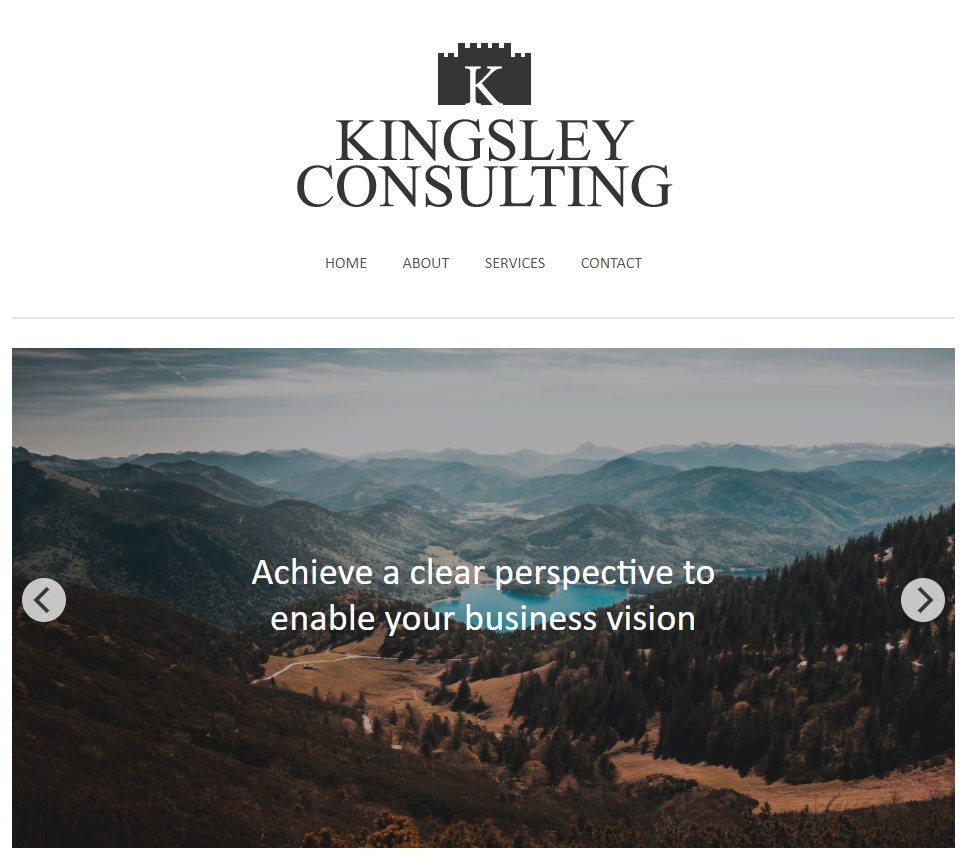
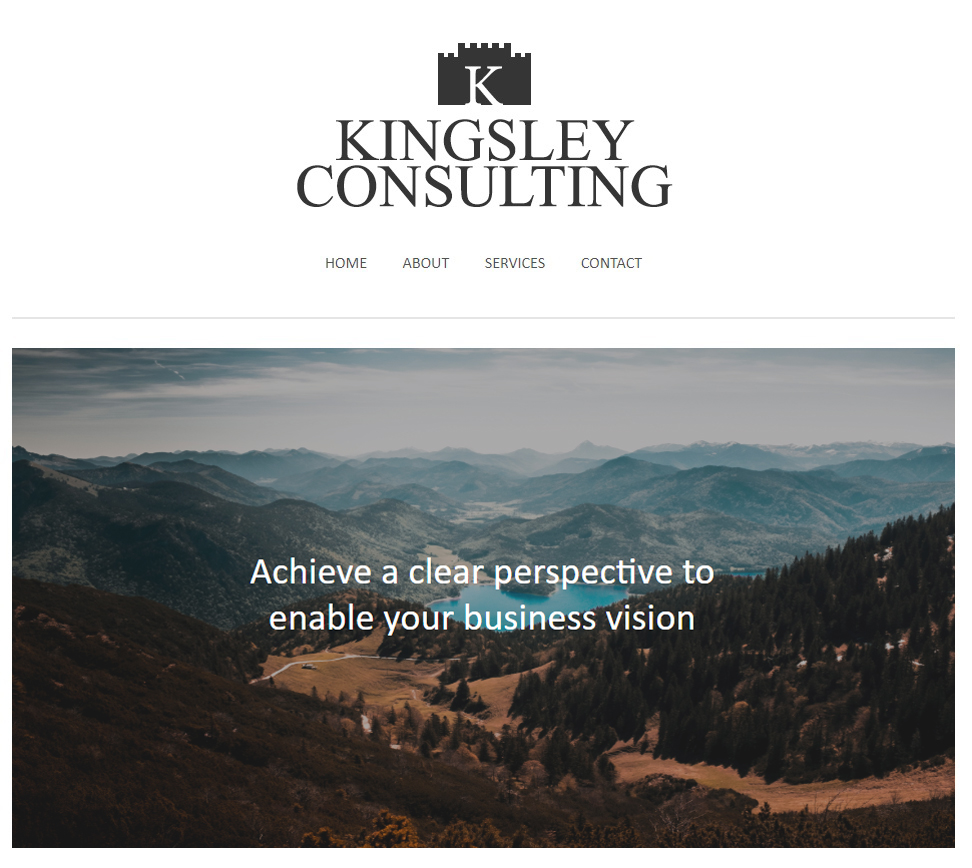
Next Please Parallax Background
+ Next Please Parallax Background
+ Split projects into two, NP and Kingsley
+ Removed buttons from Kingsley image to avoid confusion
+ Minor info changes

diff --git a/index.html b/index.html
@@ -84,62 +84,72 @@
 
 
 <!-- Projects Section --> 
-<div id="projects-container">
-	<h4 style="color:White; display: inline-block;"> Projects </h4> 
-	<br>
-		<p id="projects-headers"> Next Please! </p>
+<div class="parallax-np">
 
-	<center>
-		<div class="carousel js-flickity"  data-flickity-options='{"wrapAround":true,
-			"autoPlay":5000,"pageDots":false, "friction": 0.75, "contain":true}'>
-		  
-		  <div class="gallery-cell">
-			<img src="NextPlease1.jpg" alt="Next Please Menu"  id="nextplease-images"/>
-		  </div> 
-		  
-		  <div class="gallery-cell">
-			<img src="NextPlease2.jpg" alt="Next Please Store" id="nextplease-images"/>
-		  </div>
-		  		  
-		  <div class="gallery-cell">
-			<img src="NextPlease3.jpg" alt="Next Please Thief" id="nextplease-images"/>
-		  </div>
-		  
-		  <div class="gallery-cell">
-			<img src="NextPlease4.jpg" alt="Next Please Combo" id="nextplease-images"/>
-		  </div>
-		  
-		</div>
-	</center>
+	<div id="projects-container">
 	
-	<div id="paragraphs">	
+		<h4 style="color:White; display: inline-block;"> Next Please! </h4> 
 
+		<center>
+			<div class="carousel js-flickity"  data-flickity-options='{"wrapAround":true,
+				"autoPlay":5000,"pageDots":false, "friction": 0.75, "imagesLoaded": true, "contain":true}'>
+			  
+			  <div class="gallery-cell">
+				<img src="NextPlease1.jpg" alt="Next Please Menu"  id="nextplease-images"/>
+			  </div> 
+			  
+			  <div class="gallery-cell">
+				<img src="NextPlease2.jpg" alt="Next Please Store" id="nextplease-images"/>
+			  </div>
+					  
+			  <div class="gallery-cell">
+				<img src="NextPlease3.jpg" alt="Next Please Thief" id="nextplease-images"/>
+			  </div>
+			  
+			  <div class="gallery-cell">
+				<img src="NextPlease4.jpg" alt="Next Please Combo" id="nextplease-images"/>
+			  </div>
+			  
+			</div>
+		</center>
 		
-		<p style="color: white;"> Next Please is a simple arcade game that is primarily designed for play on mobile phones. 
-			The game is suitable for all ages to play, and has been developed using Unity. 
-			The latest build of the game can be played within the browser with the unity extension. 
-			Please note that this game is still a work in progress. Some assets in the game are placeholder, and 
-			some gameplay settings may be subject to change. </p> 
+		<div id="paragraphs">	
+
 			
-		<p id="projects-button"> 
-			<a href="NextPlease.html" style="Color:white; border-bottom: 0px;">Click here to play the latest Next Please build</a> 
-		</p> 
-
-		<p id="projects-headers" style="padding-top: 25px;"> Kingsley Consulting Website </p> 
+			<p style="color: white;"> Next Please is a simple arcade game that is primarily designed to be played on mobile phones. 
+				The game is suitable for all ages to play, and has been developed using Unity. 
+				The latest build of the game can be played within the browser, via the button below. 
+				Please note that this game is still very much a work in progress. Some assets in the game are placeholder, and 
+				some gameplay settings may be subject to change. </p> 
+				
+			<p id="projects-button"> 
+				<a href="NextPlease.html" style="Color:white; border-bottom: 0px;">Click here to play the latest Next Please build</a> 
+			</p> 
+			
+		</div> 
 		
-	</div> 
+	</div>
+
+</div> 
+
+
+
 	
+<div id="projects-container">
+
+	<h5> Kingsley Consulting Website </h5> 
+
 	<img src="Kingsley.jpg" alt="Kingsley Website" id="kingsley-image"">
 	
 	<div id="paragraphs">
 			
-		<p style="color: white;"> Kingsley Consulting was a website that was in development for a client that was looking to 
+		<p> Kingsley Consulting is a website that was in development for a client looking to 
 		start their own consultancy firm. The client's vision for the website was to have a website which provided the necessary information
-		with a clean, minimalistic design. A logo was also designed for the site with Adobe Photoshop. The Development on the website has been 
+		with a clean, minimalistic design. A logo was also designed for the site with Adobe Photoshop. Development on the website has been 
 		postponed until further notice.</p>
 	
 		<p id="projects-button"> 
-			<a href="Kingsley/kingsleyhome.html" style="Color:white; border-bottom: 0px;">Click here for the Kingsley Consulting prototype</a> 
+			<a href="Kingsley/kingsleyhome.html" style="border-bottom: 0px;">Click here for the Kingsley Consulting prototype</a> 
 		</p> 
 	</div>
 

diff --git a/NextPlease.html b/NextPlease.html
@@ -24,14 +24,19 @@
 
 <body>
 
-
-
 	<iframe src="https://www.louisgardner.co.uk/NextPlease/index.html" 
 	style="border:0px #000000 none;" name="Next Please" scrolling="no" frameborder="1" marginheight="px" 
 	height="720px" width="1280px"></iframe>
 
-	<p style="color: white"> Please be aware that this is a work in progress and as a result the game is still quite buggy! </p>
+	<p style="color: white"> Please be aware that this is a work in progress and as a result the 
+	game is still quite buggy! </p>
 
+	
+	<p style="color: white"> Requires Firefox 51 / Chrome 56 to run. </p>
+	
+	<p style="color: white"> Please note that Unity WebGL on mobile applications is not currently 
+	</p>
+	
 </body>
 
 

diff --git a/Kingsley/kingsleyhome.html b/Kingsley/kingsleyhome.html
@@ -53,7 +53,7 @@
 <!-- Flickity Carousels (Info)-->
 <center>
 <div class="carousel js-flickity"  data-flickity-options='{"wrapAround":true,
-	"autoPlay":6000,"pageDots":false, "friction": 0.75, "contain":true}'>
+	"autoPlay":6000,"pageDots":false, "friction": 0.75, "imagesLoaded": true, "contain":true}'>
   
   <div class="gallery-cell">
     <p class="flickity-text"> 
